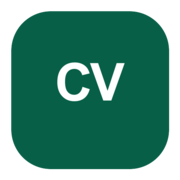
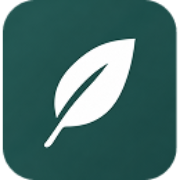
feat: refresh Tiny CV branding assets

diff --git a/src/app/layout.tsx b/src/app/layout.tsx
@@ -7,14 +7,17 @@ import {
   Source_Sans_3,
   Source_Serif_4,
 } from "next/font/google";
+import {
+  getTinyCvAppUrl,
+  getTinyCvSocialCardImage,
+  TINYCV_APP_DESCRIPTION,
+  TINYCV_SITE_NAME,
+} from "@/app/_lib/site-metadata";
 import "./globals.css";
 
-const appDescription = "Write in markdown, preview on paper, publish a clean CV link, and export a PDF.";
-const appUrl =
-  process.env.TINYCV_APP_URL?.trim() ||
-  process.env.NEXT_PUBLIC_TINYCV_APP_URL?.trim() ||
-  process.env.NEXT_PUBLIC_SITE_URL?.trim() ||
-  "https://tiny.cv";
+const appDescription = TINYCV_APP_DESCRIPTION;
+const appUrl = getTinyCvAppUrl();
+const socialCardImage = getTinyCvSocialCardImage();
 
 const uiSans = Source_Sans_3({
   variable: "--font-ui-sans",
@@ -52,10 +55,10 @@ export const metadata: Metadata = {
   alternates: {
     canonical: "/",
   },
-  applicationName: "Tiny CV",
-  authors: [{ name: "Tiny CV" }],
+  applicationName: TINYCV_SITE_NAME,
+  authors: [{ name: TINYCV_SITE_NAME }],
   category: "productivity",
-  creator: "Tiny CV",
+  creator: TINYCV_SITE_NAME,
   description: appDescription,
   keywords: [
     "resume builder",
@@ -69,13 +72,14 @@ export const metadata: Metadata = {
   metadataBase: new URL(appUrl),
   openGraph: {
     description: appDescription,
+    images: [socialCardImage],
     locale: "en_US",
-    siteName: "Tiny CV",
+    siteName: TINYCV_SITE_NAME,
     title: "Tiny CV - The resume builder that stays on one page.",
     type: "website",
     url: "/",
   },
-  publisher: "Tiny CV",
+  publisher: TINYCV_SITE_NAME,
   robots: {
     follow: true,
     googleBot: {
@@ -95,6 +99,7 @@ export const metadata: Metadata = {
     card: "summary_large_image",
     creator: "@andrewjiang",
     description: appDescription,
+    images: [socialCardImage],
     site: "@andrewjiang",
     title: "Tiny CV - The resume builder that stays on one page.",
   },

diff --git a/src/app/_components/public-resume-renderer.tsx b/src/app/_components/public-resume-renderer.tsx
@@ -5,6 +5,7 @@ import { getPageMetrics } from "@/app/_lib/cv-fit";
 import { parseCvMarkdown } from "@/app/_lib/cv-markdown";
 import { canRemoveBrandingForResume } from "@/app/_lib/entitlements";
 import type { HostedResumePublicRecord } from "@/app/_lib/hosted-resume-types";
+import { getTinyCvSocialCardImage } from "@/app/_lib/site-metadata";
 
 export async function PublicResumeRenderer({
   autoPrint = false,
@@ -42,14 +43,42 @@ export async function PublicResumeRenderer({
   );
 }
 
-export async function buildPublicResumeMetadata(resume: HostedResumePublicRecord) {
+export async function buildPublicResumeMetadata(
+  resume: HostedResumePublicRecord,
+  options?: {
+    canonicalPath?: string;
+  },
+) {
   const document = parseCvMarkdown(resume.markdown);
   const hideBranding = await canRemoveBrandingForResume(resume.id);
+  const description = hideBranding
+    ? `${document.name}'s resume.`
+    : `${document.name}'s resume, published with Tiny CV.`;
+  const title = `${document.name} | Resume`;
+  const canonicalPath = options?.canonicalPath ?? `/${resume.slug}`;
+  const socialCardImage = getTinyCvSocialCardImage();
 
   return {
-    description: hideBranding
-      ? `${document.name}'s resume.`
-      : `${document.name}'s resume, published with Tiny CV.`,
-    title: `${document.name} | Resume`,
+    alternates: {
+      canonical: canonicalPath,
+    },
+    description,
+    openGraph: {
+      description,
+      images: [socialCardImage],
+      siteName: "Tiny CV",
+      title,
+      type: "profile",
+      url: canonicalPath,
+    },
+    title,
+    twitter: {
+      card: "summary_large_image",
+      creator: "@andrewjiang",
+      description,
+      images: [socialCardImage],
+      site: "@andrewjiang",
+      title,
+    },
   };
 }

diff --git a/src/app/page.tsx b/src/app/page.tsx
@@ -1,6 +1,10 @@
+import type { Metadata } from "next";
 import { headers } from "next/headers";
 import { notFound } from "next/navigation";
-import { PublicResumeRenderer } from "@/app/_components/public-resume-renderer";
+import {
+  buildPublicResumeMetadata,
+  PublicResumeRenderer,
+} from "@/app/_components/public-resume-renderer";
 import { TinyCvLandingPage } from "@/app/_components/tinycv-landing-page";
 import { getBillingLaunchState } from "@/app/_lib/billing";
 import { getWorkspace } from "@/app/_lib/hosted-resume-store";
@@ -8,6 +12,21 @@ import { resolveHost } from "@/app/_lib/resume-domains";
 import { readWorkspaceCookie } from "@/app/_lib/workspace-cookie";
 
 export const dynamic = "force-dynamic";
+
+export async function generateMetadata(): Promise<Metadata> {
+  const requestHeaders = await headers();
+  const hostResolution = await resolveHost(
+    requestHeaders.get("x-forwarded-host") || requestHeaders.get("host"),
+  );
+
+  if (hostResolution.kind === "resume_domain") {
+    return await buildPublicResumeMetadata(hostResolution.resume, {
+      canonicalPath: "/",
+    });
+  }
+
+  return {};
+}
 
 export default async function Home() {
   const requestHeaders = await headers();

diff --git a/src/app/_components/tinycv-landing-page.tsx b/src/app/_components/tinycv-landing-page.tsx
@@ -278,14 +278,15 @@ export function TinyCvLandingPage({
 
           <footer className="border-t border-black/5 bg-black/[0.01] px-5 py-16 sm:px-8 lg:px-12 mt-20">
             <div className="mx-auto max-w-[80rem] flex flex-col md:flex-row md:items-center md:justify-between gap-8">
-              <div className="flex items-center gap-2">
-                <div className="flex h-6 w-6 items-center justify-center rounded-md bg-[#065f46] text-white">
-                  <span className="text-[0.55rem] font-bold">CV</span>
-                </div>
-                <p className="text-sm font-bold uppercase tracking-widest text-slate-950">
-                  Tiny CV
-                </p>
-              </div>
+              <Link className="inline-flex min-h-11 items-center" href="/">
+                <Image
+                  alt="Tiny CV"
+                  className="h-7 w-auto"
+                  height={130}
+                  src="/tinycv_logo.png"
+                  width={400}
+                />
+              </Link>
 
               <nav className="flex flex-wrap gap-x-8 gap-y-4 text-sm font-bold text-slate-500">
                 <Link className="transition hover:text-slate-950" href="/documentation">

diff --git a/src/app/_components/app-header.tsx b/src/app/_components/app-header.tsx
@@ -1,5 +1,6 @@
 "use client";
 
+import Image from "next/image";
 import Link from "next/link";
 import { authClient } from "@/app/_lib/auth-client";
 import { brandPrimaryButtonClass } from "./button-classes";
@@ -13,13 +14,15 @@ export const appHeaderInnerClass =
 
 export function AppHeaderBrand({ className = "" }: { className?: string }) {
   return (
-    <Link className={`group inline-flex min-h-11 items-center gap-2 ${className}`} href="/">
-      <div className="flex h-7 w-7 items-center justify-center rounded-lg bg-[#065f46] text-white shadow-sm transition group-hover:scale-105">
-        <span className="text-[0.65rem] font-bold tracking-tight">CV</span>
-      </div>
-      <p className="text-[0.85rem] font-bold uppercase tracking-[0.28em] text-slate-950">
-        Tiny CV
-      </p>
+    <Link className={`group inline-flex min-h-11 items-center ${className}`} href="/">
+      <Image
+        alt="Tiny CV"
+        className="h-8 w-auto transition group-hover:scale-[1.02]"
+        height={130}
+        priority
+        src="/tinycv_logo.png"
+        width={400}
+      />
     </Link>
   );
 }

diff --git a/src/app/manifest.ts b/src/app/manifest.ts
@@ -1,11 +1,10 @@
 import type { MetadataRoute } from "next";
-
-const description = "Write in markdown, preview on paper, publish a clean CV link, and export a PDF.";
+import { TINYCV_APP_DESCRIPTION } from "@/app/_lib/site-metadata";
 
 export default function manifest(): MetadataRoute.Manifest {
   return {
     background_color: "#fbf7f0",
-    description,
+    description: TINYCV_APP_DESCRIPTION,
     display: "standalone",
     icons: [
       {
@@ -14,9 +13,14 @@ export default function manifest(): MetadataRoute.Manifest {
         type: "image/x-icon",
       },
       {
-        src: "/icon.svg",
-        sizes: "any",
-        type: "image/svg+xml",
+        src: "/icon-192.png",
+        sizes: "192x192",
+        type: "image/png",
+      },
+      {
+        src: "/icon-512.png",
+        sizes: "512x512",
+        type: "image/png",
       },
       {
         src: "/apple-icon.png",

diff --git a/src/app/_lib/site-metadata.ts b/src/app/_lib/site-metadata.ts
@@ -1,0 +1,23 @@
+export const TINYCV_APP_DESCRIPTION =
+  "Write in markdown, preview on paper, publish a clean CV link, and export a PDF.";
+
+export const TINYCV_SITE_NAME = "Tiny CV";
+export const TINYCV_SOCIAL_CARD_PATH = "/tinycv_socialcard.png";
+
+export function getTinyCvAppUrl() {
+  return (
+    process.env.TINYCV_APP_URL?.trim()
+    || process.env.NEXT_PUBLIC_TINYCV_APP_URL?.trim()
+    || process.env.NEXT_PUBLIC_SITE_URL?.trim()
+    || "https://tiny.cv"
+  );
+}
+
+export function getTinyCvSocialCardImage() {
+  return {
+    alt: "Tiny CV social preview card",
+    height: 630,
+    url: TINYCV_SOCIAL_CARD_PATH,
+    width: 1200,
+  } as const;
+}
